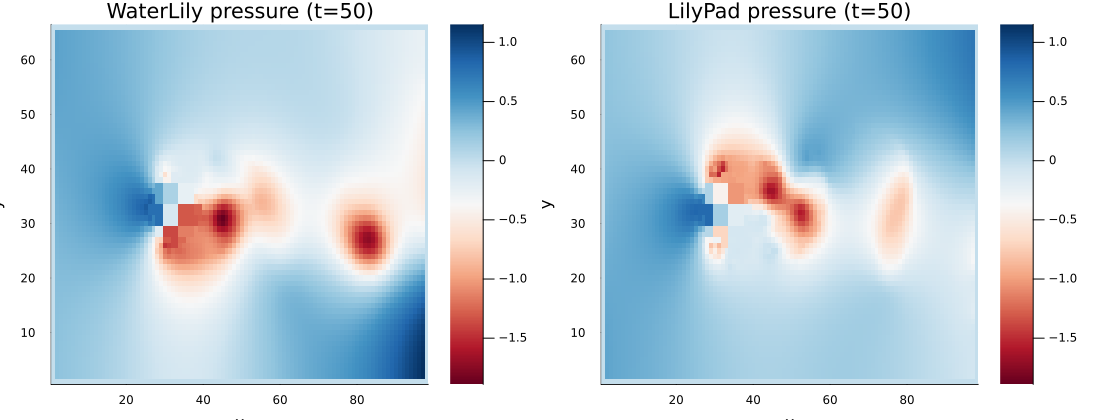
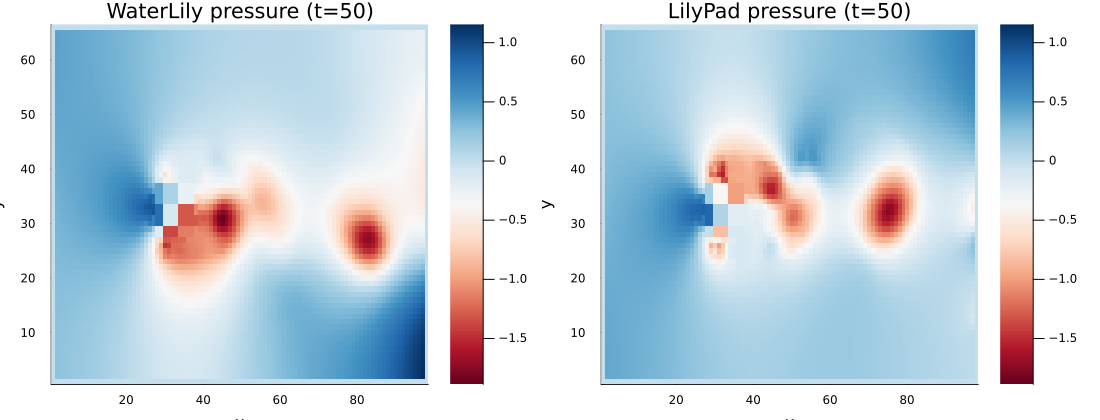
Fix RK2 bug

diff --git a/CLAUDE.md b/CLAUDE.md
@@ -92,10 +92,10 @@ not yet been validated against the legacy reference.
 - **Advection interpolation reduction landed**: corrector now reuses the averaged velocity in `flow.u`, reducing total vector-interp calls from 6 to 4 per advected point (predictor 2 + corrector 2 instead of predictor 2 + corrector 4).
 - **README path simplified**: `examples/readme_circle_compare.jl` is the canonical example and emits one-step velocity + long-run force trace figures.
 - **Current force status (inviscid comparison, LP `fixed_dt=1.5`, metrics over t=25–50)**:
-	- lift mean absolute error (`mean(WL) - mean(LP)`): `-0.1031` (expected mean lift is near zero; do not use relative error)
-	- drag mean relative error (`1 - mean(LP)/mean(WL)`): `0.2472` (~25% lower mean drag in LP)
-	- drag std  relative error (`1 - std(LP)/std(WL)`):  `-0.0378` (~3.8% larger LP amplitude)
-	- lift std  relative error (`1 - std(LP)/std(WL)`):  `-0.0170` (~1.7% larger LP amplitude)
+	- lift mean absolute error (`mean(WL) - mean(LP)`): `-0.093` (expected mean lift is near zero; do not use relative error)
+	- drag mean relative error (`1 - mean(LP)/mean(WL)`): `0.244` (~25% lower mean drag in LP)
+	- drag std  relative error (`1 - std(LP)/std(WL)`):  `-0.048` (larger LP amplitude)
+	- lift std  relative error (`1 - std(LP)/std(WL)`):  `-0.036` (larger LP amplitude)
 - **3D GPU profiling status (inviscid, synchronized timing)**:
 	- `fixed_dt=1.5`: `sec/(tU/L) = 0.323629`; advection share `0.610`; projection share `0.324`.
 	- `fixed_dt=2.5`: `sec/(tU/L) = 0.181698`; advection share `0.586`; projection share `0.348`.